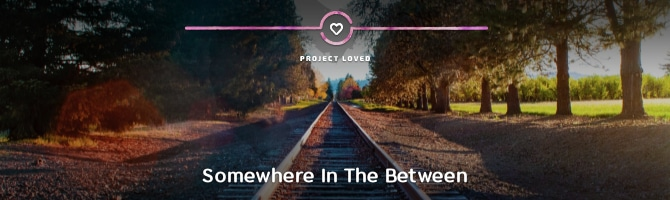
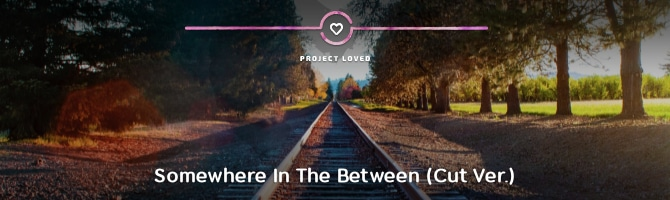
Update images, map info and osu! gamde mode name

Changed region(s): [[0.209, 0.84, 0.7761, 0.93]]

diff --git a/news/2021-04-19-project-loved-april-2021.md b/news/2021-04-19-project-loved-april-2021.md
@@ -1,7 +1,7 @@
 ---
 layout: post
 title: "Project Loved: April 2021"
-date: 2021-04-19 10:00:00 +0000
+date: 2021-04-19 12:00:00 +0000
 ---
 
 With a fresh batch of maps from the grave, [Project Loved](https://osu.ppy.sh/community/forums/120) returns with your monthly dose of maps to vote on!
@@ -16,28 +16,28 @@ With that out of the way, let's move onto the maps!
 
 ### Navigation
 
-- [osu!standard](#osu)
+- [osu!](#osu)
 - [osu!taiko](#taiko)
 - [osu!catch](#catch)
 - [osu!mania](#mania)
 
-## <a id="osu"></a>osu!standard
+## <a id="osu"></a>osu!
 
-osu!standard Loved candidates were chosen by [Bubbleman](https://osu.ppy.sh/users/5182050), [DigitalHypno](https://osu.ppy.sh/users/4384207) and [waywern2012](https://osu.ppy.sh/users/5870453)! This round, all osu!standard beatmap descriptions were written by [Bubbleman](https://osu.ppy.sh/users/5182050).
+osu! Loved candidates were chosen by [Bubbleman](https://osu.ppy.sh/users/5182050), [DigitalHypno](https://osu.ppy.sh/users/4384207) and [waywern2012](https://osu.ppy.sh/users/5870453)! This round, all osu! beatmap descriptions were written by [Bubbleman](https://osu.ppy.sh/users/5182050).
 
 ---
 
 [![](/wiki/shared/news/2021-04-19-project-loved-april-2021/1171250.jpg)](https://osu.ppy.sh/community/forums/topics/{{TOPIC_ID}})
 
 [RoughSketch - 666](https://osu.ppy.sh/beatmapsets/1171250#osu) by [Lebros](https://osu.ppy.sh/users/12511947)\
-333 BPM, 0:00 | 4.68★, 5.34★, 6.66★, 8.58★
+333 BPM, 1:58 | 4.68★, 5.34★, 6.66★, 8.58★
 
 This song is exactly what it says on the tin - 666 BPM Speedcore. The mapping? Well, that reflects that fact. High spacing on flow aim and jumps make this a challenge to even keep up with in terms of speed, and in line with the speedcore genre there are occasional buzz sliders here and there between the wiggles and rhythm changes to keep you on your toes. If you're looking for fast-paced, adrenaline-fueled fun, then look no further.
 
 [![](/wiki/shared/news/2021-04-19-project-loved-april-2021/895846.jpg)](https://osu.ppy.sh/community/forums/topics/{{TOPIC_ID}})
 
 [xi - Freedom Dive (tpz Overcute Remix)](https://osu.ppy.sh/beatmapsets/895846#osu) by [Twiggykun](https://osu.ppy.sh/users/9126943)\
-234.55 BPM, 0:00 | 8.03★
+234.55 BPM, 3:01 | 8.03★
 
 More Freedom Dive can never hurt, right? Especially not when it's been remixed by t+pazolite. The song changes almost entirely but still features its recognisable melody to keep everything moving, meaning the map is going to seem a bit different also; Instead of all the winding deathstreams, in their place lie 8\* jumps that never slow down, and even then there's still a spaced stream or two at a slightly increased 234.55 BPM. If you've never heard this remix before you owe it to yourself to give it at least one listen, and maybe while you're there you can give the map a try too - that is, if you think your aim hand is up to the task!
 
@@ -50,29 +50,29 @@ The star rating says 5.82\*, but don't let that one fool you - this is a real rh
 
 [![](/wiki/shared/news/2021-04-19-project-loved-april-2021/1026767.jpg)](https://osu.ppy.sh/community/forums/topics/{{TOPIC_ID}})
 
-[Ayaponzu\* - Justice Monster](https://osu.ppy.sh/beatmapsets/1026767#osu) by [Settia](https://osu.ppy.sh/users/2445897)\
-160 BPM, 0:00 | 6.17★, 7.07★
+[ayaponzu\* - Justice Monster](https://osu.ppy.sh/beatmapsets/1026767#osu) by [Settia](https://osu.ppy.sh/users/2445897)\
+160 BPM, 4:13 | 6.17★, 7.07★
 
 If you've watched or played in any high end tournaments, you'll know this map well by now, but for those who haven't you're in for a trial. 160 BPM and yet still 7\* should already be a warning sign, but get into the map and you'll be faced with unrelenting spaced streams and even a few technical patterns scattered across the four-minute run time. There's an Extra difficulty that changes the circle size from 4 to 2 if you want less of an aim challenge, but the circles still don't touch in most streams - all of this coupled with a eurobeat banger no less. The map is a treat to play, so come give it a go!
 
 [![](/wiki/shared/news/2021-04-19-project-loved-april-2021/581468.jpg)](https://osu.ppy.sh/community/forums/topics/{{TOPIC_ID}})
 
 [Unlucky Morpheus - Angreifer](https://osu.ppy.sh/beatmapsets/581468#osu) by [Scarsnic](https://osu.ppy.sh/users/2736673)\
-220 BPM, 0:00 | 7.13★
+220 BPM, 6:58 | 7.13★
 
 Scarsnic has been one of the more well known "Graveyard Mappers" for years, throwing out many great high difficulty maps to challenge players and push boundaries, and this one is no exception. Hailing from before the ranked set of this song, it features many of the same aspects such as challenging streams and high spacing jumps, fitting together into a 7 minute marathon that will test the high end consistency of any player. Do you have what it takes to face this map's challenge head-on?
 
 [![](/wiki/shared/news/2021-04-19-project-loved-april-2021/116778.jpg)](https://osu.ppy.sh/community/forums/topics/{{TOPIC_ID}})
 
-[virkato - Waltz No. 17 in G minor, "Waltz of the Big dogs"](https://osu.ppy.sh/beatmapsets/116778#osu) by [CuNha](https://osu.ppy.sh/users/521116)\
-300 BPM, 0:00 | 6.25★
+[virkato - Waltz in G Minor No.17 "Valse du grand chien"](https://osu.ppy.sh/beatmapsets/116778#osu) by [CuNha](https://osu.ppy.sh/users/521116)\
+300 BPM, 2:10 | 6.25★
 
-Released in 2013, consisting of technical rhythm and aim at a scarily hard difficulty for the time, *Waltz of the Big dogs* has always been "one of those maps". The ones that only the true best of the best can play, so off-the-beaten-path that it's barely ever touched on. Now, in 2021, players have advanced in skill tremendously - and since the mapping still holds up brilliantly, it's finally time for this lost gem to re-emerge and see if it can still challenge the top players of today.
+Released in 2013, consisting of technical rhythm and aim at a scarily hard difficulty for the time, *Valse du grand chien* has always been "one of those maps". The ones that only the true best of the best can play, so off-the-beaten-path that it's barely ever touched on. Now, in 2021, players have advanced in skill tremendously - and since the mapping still holds up brilliantly, it's finally time for this lost gem to re-emerge and see if it can still challenge the top players of today.
 
 [![](/wiki/shared/news/2021-04-19-project-loved-april-2021/53813.jpg)](https://osu.ppy.sh/community/forums/topics/{{TOPIC_ID}})
 
 [DJ Fresh - Gold Dust (Sonic Entropy Remix)](https://osu.ppy.sh/beatmapsets/53813#osu) by [galvenize](https://osu.ppy.sh/users/381444) and [kriers](https://osu.ppy.sh/users/333241)\
-175 BPM, 0:00 | 3.94★, 5.76★
+175 BPM, 4:25 | 3.94★, 5.76★
 
 We have to ask ourselves this: Is osu! ready for Gold Dust 2? [The original](https://osu.ppy.sh/beatmapsets/28107#osu/93842) passed the 10 year anniversary of it's upload on the 28th March this year, and this one was uploaded almost a year and a half later - filled with galvenize's iconic symmetry and awkward aim patterns on a smooth remix of the original song, this map is going to be a thorough challenge for even the best; but fear not, as just like on the original set there is another \~4\* collab difficulty by galv and kriers to play if you're not up to the main difficulty just yet.
 
@@ -80,8 +80,8 @@ Personally? I think osu! is ready for Gold Dust 2.
 
 [![](/wiki/shared/news/2021-04-19-project-loved-april-2021/65476.jpg)](https://osu.ppy.sh/community/forums/topics/{{TOPIC_ID}})
 
-[Kairikibear - Kanzen Chouaku Lolita Complex](https://osu.ppy.sh/beatmapsets/65476#osu) by [Star Stream](https://osu.ppy.sh/users/389236), [HelloSCV](https://osu.ppy.sh/users/798743), [Kaburagi Kotetsu](https://osu.ppy.sh/users/1893883), [Mixagji](https://osu.ppy.sh/users/767003) and [winber1](https://osu.ppy.sh/users/270328)\
-275 BPM, 0:00 | 1.91★, 2.26★, 3.75★, 5.47★, 6.81★
+[Kairiki bear feat. GUMI - Kanzen Chouaku Lolita Complex](https://osu.ppy.sh/beatmapsets/65476#osu) by [Star Stream](https://osu.ppy.sh/users/389236), [HelloSCV](https://osu.ppy.sh/users/798743), [Kaburagi Kotetsu](https://osu.ppy.sh/users/1893883), [Mixagji](https://osu.ppy.sh/users/767003) and [winber1](https://osu.ppy.sh/users/270328)\
+275 BPM, 4:00 | 1.91★, 2.26★, 3.75★, 5.47★, 6.81★
 
 After a short push for ranked in early 2013, this set sadly fell by the wayside, which is a shame since if it was ranked I believe it would have been one of the "boss maps" of its time. Featuring 275 BPM streams and fast aim patterns, it's a real step above the general difficulty of the era's usual mapping, and still holds up really well today, so go give it a try and see what one of the forgotten challenges of the era looks like. There's a full spread of difficulties too, so there's really something for every player in this mapset.
 
@@ -101,7 +101,7 @@ osu!taiko Loved candidates were chosen by [-Kazu-](https://osu.ppy.sh/users/9208
 [![](/wiki/shared/news/2021-04-19-project-loved-april-2021/1082737.jpg)](https://osu.ppy.sh/community/forums/topics/{{TOPIC_ID}})
 
 [ragey - Shoujo Rei](https://osu.ppy.sh/beatmapsets/1082737#taiko) by [kitafuma](https://osu.ppy.sh/users/8987606)\
-150 BPM, 4:34 | 4.61★, 7.15★, 7.31★, 7.66★\
+150 BPM, 4:34 | 4.61★, 7.15★, 7.31★, 7.74★\
 *description written by [POCARI SWEAT](https://osu.ppy.sh/users/5082685)*
 
 Chill J-Pop music is beloved by many, and several taiko players like speedy patterns. So how about combining those two? *Shoujo Rei* mapped by kitafuma is a beatmap which is an outstanding result of this exotic attempt.\
@@ -110,8 +110,8 @@ Unlike the breakcore smashing your ears, this song will give you a relaxing feel
 
 [![](/wiki/shared/news/2021-04-19-project-loved-april-2021/1414510.jpg)](https://osu.ppy.sh/community/forums/topics/{{TOPIC_ID}})
 
-[HoneyComeBear - Natsuzora (Synthion & YUKIYANAGI Remix)](https://osu.ppy.sh/beatmapsets/1414510#taiko) by [HEKUSODASU](https://osu.ppy.sh/users/9044692)\
-170 BPM, 0:00 | 5.23★\
+[HoneyComeBear - Natsuzora (Synthion & YUKIYANAGI Remix) (Cut Ver.)](https://osu.ppy.sh/beatmapsets/1414510#taiko) by [HEKUSODASU](https://osu.ppy.sh/users/9044692)\
+170 BPM, 3:04 | 5.23★\
 *description written by [KuroKuroKuro](https://osu.ppy.sh/users/11931563)*
 
 Congratulations to HEKUSODASU on winning the osu!taiko Japanese Beatmap Contest! Their maps are great, but this one is an exceptional example. Everyone please try their map of *Natsuzora (Synthion & YUKIYANAGI Remix)*! You will be amazed at the variety of SVs and patterns that match the mood of the song. You can definitely play along with the rhythm of the song without getting bored until the very end.\
@@ -119,8 +119,8 @@ We hope you'll find this map challenging and satisfying!
 
 [![](/wiki/shared/news/2021-04-19-project-loved-april-2021/304074.jpg)](https://osu.ppy.sh/community/forums/topics/{{TOPIC_ID}})
 
-[cosMo@BousouP - UltraHardAttacks of OddMusiK(cosmobsp-style)](https://osu.ppy.sh/beatmapsets/304074#taiko) by [tasuke912](https://osu.ppy.sh/users/2774767)\
-164 BPM, 0:00 | 7.32★\
+[cosMo@BousouP - UltraHardAttacks of OddMusiK (cosmobsp-style) (Cut Ver.)](https://osu.ppy.sh/beatmapsets/304074#taiko) by [tasuke912](https://osu.ppy.sh/users/2774767)\
+164 BPM, 3:00 | 7.32★\
 *description written by [-Kazu-](https://osu.ppy.sh/users/920861)*
 
 As one of the flagships of the Japanese Beatmapping Community, tasuke912 is very well known for his skills at improvising tech patterns that feel incredibly natural to the song and this time is no exception, as *UltraHardAttacks of OddMusiK* sure is a flawless beatmap that manages to keep you consistently on your toes as its constant tech patterns along with the ecstatic mood of the song really pumps you up!
@@ -128,7 +128,7 @@ As one of the flagships of the Japanese Beatmapping Community, tasuke912 is very
 [![](/wiki/shared/news/2021-04-19-project-loved-april-2021/454685.jpg)](https://osu.ppy.sh/community/forums/topics/{{TOPIC_ID}})
 
 [Triple Feeling - Clover Kakume-tion](https://osu.ppy.sh/beatmapsets/454685#taiko) by [Osamix](https://osu.ppy.sh/users/2999359), [\_yu68](https://osu.ppy.sh/users/6170507), [Y O U T A](https://osu.ppy.sh/users/4909860) and [yassu-](https://osu.ppy.sh/users/7095592)\
-290 BPM, 0:00 | 1.64★ – 7.90★\
+290 BPM, 4:22 | 1.64★ – 7.90★\
 *description written by [-Kazu-](https://osu.ppy.sh/users/920861)*
 
 It's not very often that we manage to bring full sets to the Loved Section, let alone one that is over 4 minutes long, reason why we're glad to bring *Clover Kakume-tion* to the voting stage. As a Japanese set consisting of 8 difficulties covering the full spread that, even though it might be a little hard in the lower end due to the set being mapped at double BPM (290 BPM), attempts to cater to a wider audience within the community, which is a welcome addition to Loved. On the other side of this set, yassu-'s diff DJ MOKOJI works as a heavy stamina speed map that could easily be a difficult challenge to most the aliens in the osu!taiko community!
@@ -142,7 +142,7 @@ osu!catch Loved candidates were chosen by [Sartan](https://osu.ppy.sh/users/4100
 [![](/wiki/shared/news/2021-04-19-project-loved-april-2021/883114.jpg)](https://osu.ppy.sh/community/forums/topics/{{TOPIC_ID}})
 
 [Nekomata Gekidan - envidia](https://osu.ppy.sh/beatmapsets/883114#fruits) by [-Ken](https://osu.ppy.sh/users/4430811)\
-80.5 BPM, 0:00 | 6.08★\
+80.5 BPM, 5:11 | 6.08★\
 *description written by [Wesley](https://osu.ppy.sh/users/2407265)*
 
 I don't think -Ken needs an introduction in the osu!catch scene as a mapper, providing many maps for you to enjoy whether you are a newer player or a more seasoned player.\
@@ -153,7 +153,7 @@ While there are no spikes in difficulty, with a total combo of 2171 should keep 
 [![](/wiki/shared/news/2021-04-19-project-loved-april-2021/486424.jpg)](https://osu.ppy.sh/community/forums/topics/{{TOPIC_ID}})
 
 [Memme - Cherry Blossom](https://osu.ppy.sh/beatmapsets/486424#fruits) by [Spectator](https://osu.ppy.sh/users/702598), [P i k u](https://osu.ppy.sh/users/2761685) and [Tenshichan](https://osu.ppy.sh/users/1101600)\
-170 BPM, 0:00 | 2.46★, 3.39★, 4.44★, 5.41★\
+170 BPM, 2:14 | 2.46★, 3.40★, 4.43★, 5.40★\
 *description written by [Sartan](https://osu.ppy.sh/users/4100941)*
 
 Don't you sometimes feel like you just want to become one with the cherry blossoms, its calmness and its beauty? Then sadly, I can't really help you, but I can provide you this awesome mapset that goes by the same name! Here we have Spectator returning to the Loved section with a nice lil' collaborated set of his!
@@ -165,14 +165,14 @@ So sit back and relax, maybe pretend that you did become one with the cherry blo
 [![](/wiki/shared/news/2021-04-19-project-loved-april-2021/204468.jpg)](https://osu.ppy.sh/community/forums/topics/{{TOPIC_ID}})
 
 [M2U - The Prince of Darkness](https://osu.ppy.sh/beatmapsets/204468#fruits) by [ExGon](https://osu.ppy.sh/users/214187)\
-160 BPM, 0:00 | 5.79★, 7.79★\
+160 BPM, 1:49 | 5.79★, 7.79★\
 *description written by [Tenshichan](https://osu.ppy.sh/users/1101600)*
 
 Finally a new name that enters the Loved section! Just kidding, it's ExGon, and yet another old gem of his, this time with *The Prince of Darkness*. The MixGon diff was created as early as 2012, whereas the other diff was created in 2015. The difficulties themselves are, as expected of older mapping, quite gimmicky and you would rarely see similar stuff being done in this day and age. The use of CS5 on both the diffs further intensifies this 'old map feeling'. If you are not consistent enough at older mapping styles you will likely have trouble to do well on the map, especially because the difficulty is quite high. But the map itself is really fun and challenging to play, so I would definitely recommend to give it a try!
 
 [![](/wiki/shared/news/2021-04-19-project-loved-april-2021/1126647.jpg)](https://osu.ppy.sh/community/forums/topics/{{TOPIC_ID}})
 
-[Streetlight Manifesto - Somewhere In The Between](https://osu.ppy.sh/beatmapsets/1126647#fruits) by [Jemzuu](https://osu.ppy.sh/users/7890134)\
+[Streetlight Manifesto - Somewhere In The Between (Cut Ver.)](https://osu.ppy.sh/beatmapsets/1126647#fruits) by [Jemzuu](https://osu.ppy.sh/users/7890134)\
 146 BPM, 2:09 | 5.19★\
 *description written by [Spectator](https://osu.ppy.sh/users/702598)*
 
@@ -187,7 +187,7 @@ osu!mania Loved candidates were chosen by [-mint-](https://osu.ppy.sh/users/8976
 [![](/wiki/shared/news/2021-04-19-project-loved-april-2021/898099.jpg)](https://osu.ppy.sh/community/forums/topics/{{TOPIC_ID}})
 
 [Venetian Snares - Epidermis](https://osu.ppy.sh/beatmapsets/898099#mania) by [Shoegazer](https://osu.ppy.sh/users/2520707)\
-220 BPM, 0:00 | 4.05★, 4.40★, 4.71★, 5.03★, 5.35★\
+220 BPM, 3:56 | 4.05★, 4.40★, 4.71★, 5.03★, 5.35★\
 *description written by [-mint-](https://osu.ppy.sh/users/8976576)*
 
 We're starting off this Loved wave in April with a classic Shoegazer chart, *Epidermis*! Overall, this chart is incredibly technical, emulating the excitement and intensity of the percussive break samples. The map is enjoyable the whole way through, even in the somewhat calmer sections, and players are constantly kept on their toes up until the ending, where the most brutal patterns in the drum solo come into play. The chart has been featured in many tournaments including MWC 2019, and it's no surprise that it's become so popular given how erratic and thrilling it is. We hope you enjoy seeing this map in the Loved section!
@@ -195,15 +195,15 @@ We're starting off this Loved wave in April with a classic Shoegazer chart, *Epi
 [![](/wiki/shared/news/2021-04-19-project-loved-april-2021/800341.jpg)](https://osu.ppy.sh/community/forums/topics/{{TOPIC_ID}})
 
 [lapix - Nexta](https://osu.ppy.sh/beatmapsets/800341#mania) by [-MysticEyes](https://osu.ppy.sh/users/6253266)\
-160 BPM, 0:00 | 4.35★\
+160 BPM, 2:07 | 4.35★\
 *description written by [Penguinosity](https://osu.ppy.sh/users/10235296)*
 
 MysticEyes's *Nexta* is here to give LN players something to test their release accuracy on. At OD 7.5, you'll be finding yourself needing to pay close attention to the timing of this charts almost deceptively straightforward long note walls. The overall density here is consistent, but the map isn't afraid to raise the difficulty during the buildups with more intricate release patterns, and even some minijacks. LN players, show this map some attention by casting your vote!
 
 [![](/wiki/shared/news/2021-04-19-project-loved-april-2021/154137.jpg)](https://osu.ppy.sh/community/forums/topics/{{TOPIC_ID}})
 
-[S3RL - MTC (Nightcore Remix)](https://osu.ppy.sh/beatmapsets/154137#mania) by [Quick Draw](https://osu.ppy.sh/users/3174286)\
-191.85 BPM, 0:00 | 1.05★, 1.79★, 2.52★, 3.53★\
+[S3RL - MTC (Nightcore Mix)](https://osu.ppy.sh/beatmapsets/154137#mania) by [Quick Draw](https://osu.ppy.sh/users/3174286)\
+191.85 BPM, 3:55 | 1.05★, 1.79★, 2.52★, 3.53★\
 *description written by [Penguinosity](https://osu.ppy.sh/users/10235296)*
 
 *MTC* is here! This long-standing set has been actively played by the osu!mania community for 7 years now, and is finally making its way into the Loved section. Back in 2014 when this was uploaded the mania community was still fresh and new, and it's sets like these that players from that era can look on and remember fondly. Combinatorix, aka "Quick Draw", provided numerous maps during this time that gave players of all kinds things that they could practice. For *MTC's* case, all 4 of the 4K difficulties here provide some very friendly patterns to anybody who is just getting into mania or VSRG in general. It's because of this sets history, and the significance of sets like these that the Loved team is always happy to bring them here for everybody to enjoy again. Cast your vote to show the love!
@@ -211,16 +211,16 @@ MysticEyes's *Nexta* is here to give LN players something to test their release 
 [![](/wiki/shared/news/2021-04-19-project-loved-april-2021/967318.jpg)](https://osu.ppy.sh/community/forums/topics/{{TOPIC_ID}})
 
 [Morimori Atsushi - MilK](https://osu.ppy.sh/beatmapsets/967318#mania) by [Guilhermeziat](https://osu.ppy.sh/users/3661387)\
-150 BPM, 0:00 | 2.56★\
+150 BPM, 1:57 | 2.56★\
 *description written by [-mint-](https://osu.ppy.sh/users/8976576)*
 
 Featured in the group stage mappool of MWC 2020, this simple yet exciting SV map serves as a friendly reminder not to slack on your intake of dairy products, an important part of the typical diet. The superior beverage over water, *MilK* is an approachable chart to learn, especially since many players are already familiar enough with this song which is popular in the rhythm game community. We hope you are not lactose intolerant when you play this map, and vote so that it may gain its deserved spot in the Loved section!
 
 [![](/wiki/shared/news/2021-04-19-project-loved-april-2021/1055371.jpg)](https://osu.ppy.sh/community/forums/topics/{{TOPIC_ID}})
 
-[Mafumafu - I wanna be a girl](https://osu.ppy.sh/beatmapsets/1055371#mania) by [LostCool](https://osu.ppy.sh/users/766374) and [HowToPlayLN](https://osu.ppy.sh/users/10879600)\
-140 BPM, 0:00 | 4.08★, 4.64★, 5.77★, 7.41★\
-The \[[4K\] Nyaa] difficulty is *not* being nominated for Loved.\
+[mafumafu - I wanna be a girl](https://osu.ppy.sh/beatmapsets/1055371#mania) by [LostCool](https://osu.ppy.sh/users/766374) and [HowToPlayLN](https://osu.ppy.sh/users/10879600)\
+140 BPM, 3:55 | 4.08★, 4.64★, 5.77★, 7.41★\
+The \[Nyaa\] difficulty is *not* being nominated for Loved.\
 *description written by [Kawawa](https://osu.ppy.sh/users/4647754)*
 
 LostCool returns to the Loved scene with their incredibly popular set, *I wanna be a girl*! This set appeals to both of the biggest camps of osu!mania by having both 4K and 7K charts. The higher difficulty 4K here is more stream-oriented, while the 7K takes on some O2Jam-style patterning, but both sides present good challenges to players looking to test their LN accuracies. Everything here is tied together by the song's comfortable 140 BPM, which lends itself to the creative and fun patterning that LostCool has to offer. This set truly is a crowd favorite, and definitely deserves to be nominated for Loved.
@@ -228,7 +228,7 @@ LostCool returns to the Loved scene with their incredibly popular set, *I wanna 
 [![](/wiki/shared/news/2021-04-19-project-loved-april-2021/1222320.jpg)](https://osu.ppy.sh/community/forums/topics/{{TOPIC_ID}})
 
 [Dareharu - Karma](https://osu.ppy.sh/beatmapsets/1222320#mania) by [Remuring](https://osu.ppy.sh/users/6522146) and [ruka](https://osu.ppy.sh/users/6117525)\
-132 BPM, 0:00 | 6.53★\
+132 BPM, 4:27 | 6.56★\
 *description written by [Kawawa](https://osu.ppy.sh/users/4647754)*
 
 We finally have a chart from Remuring for the loved section! *Karma* is designed for 7K players who both love their long notes, along with maps that are layered comfortably and tastefully. Both the map and song here are relatively new, but that didn't stop this map from skyrocketing in popularity due to its quality. As for Remuring, they have been actively mapping for several years at this point, going through a number of style changes during that time, which helped define their now distinctive style of mapping. This map is also a collaborative effort between Remuring, and another prolific mapper from the mania scene, ruka. Together, they present a long note map that is equal parts challenging and fun, and we hope you all agree!
@@ -236,7 +236,7 @@ We finally have a chart from Remuring for the loved section! *Karma* is designed
 [![](/wiki/shared/news/2021-04-19-project-loved-april-2021/1135854.jpg)](https://osu.ppy.sh/community/forums/topics/{{TOPIC_ID}})
 
 [lapix - Carry Me Away (Extended Mix)](https://osu.ppy.sh/beatmapsets/1135854#mania) by [Evening](https://osu.ppy.sh/users/2193881)\
-175 BPM, 0:00 | 7.11★, 7.11★\
+175 BPM, 3:57 | 7.11★, 7.11★\
 *description written by [lenpai](https://osu.ppy.sh/users/5314573)*
 
 A Crowd favorite, Evening finally makes a comeback for this round with a major bop of a track and a hard banger of a chart.
